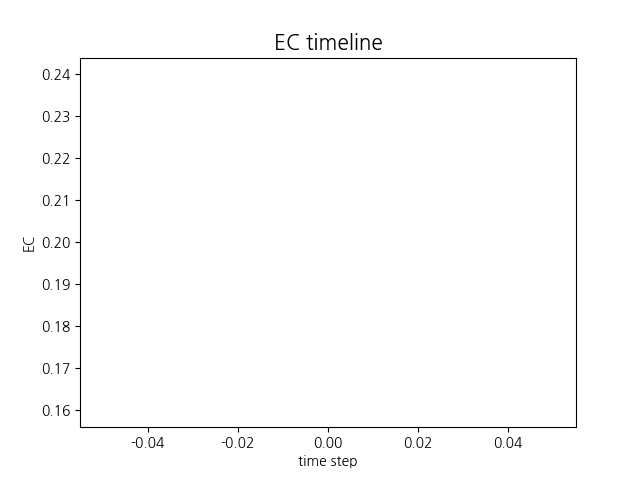
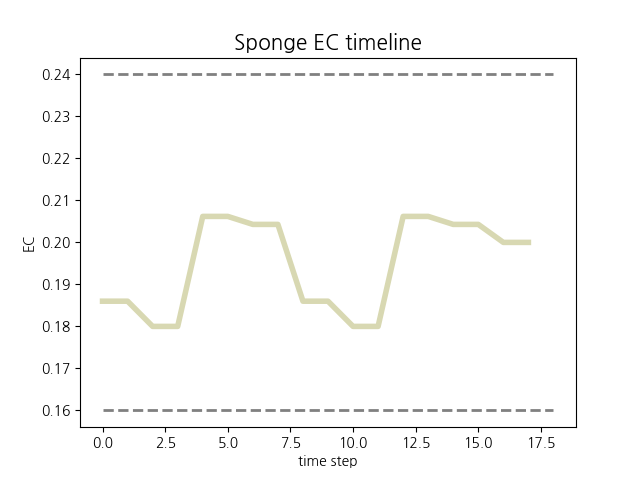
fixing db on_and_off

diff --git a/app.py b/app.py
@@ -1,7 +1,5 @@
 from flask import Flask, g, jsonify, request, render_template
-from flask import redirect
-from flask import url_for
-from flask import session
+from flask import redirect, url_for, session
 import os
 import pandas as pd
 import numpy as np
@@ -22,9 +20,9 @@ from insert_EC import insert_EC
 from making_db import making_db
 from read_EC import read_EC
 
-from datetime import datetime,timedelta
-#from db_control import search_based_time_range
-# 데이터베이스 연결 함수
+app = Flask(__name__)
+app.secret_key = os.urandom(24)
+
 # DB 생성
 connection, cursor = making_db()
 tmp_ec_data = pd.read_csv('tmp_ec_data.csv')
@@ -34,6 +32,11 @@ def get_db():
     if 'db' not in g:
         g.db = sqlite3.connect('onboard.db')
     return g.db
+
+@app.teardown_appcontext
+def close_db(error):
+    if 'db' in g:
+        g.db.close()
 
 # 10초 간격으로 데이터를 삽입하는 함수
 def inserting_data_10sec():
@@ -97,7 +100,7 @@ def returning_time_range(option):
     else:
         raise ValueError("Invalid option")
 
-def returning_time_range_ti(num,unit):
+def returning_time_range_ti(num, unit):
     now = datetime.now()
     if unit == 'second':
         return now - timedelta(seconds=num), now
@@ -113,10 +116,10 @@ def returning_time_range_ti(num,unit):
         raise ValueError("Invalid option")
 
 # 시간 범위에 따른 데이터를 조회하는 함수
-def search_based_time_range(num,unit):
+def search_based_time_range(num, unit):
     connection = get_db()
     cursor = connection.cursor()
-    start_time, end_time = returning_time_range_ti(num,unit)
+    start_time, end_time = returning_time_range_ti(num, unit)
     ectable = read_EC(cursor, start_time.strftime('%Y-%m-%d %H:%M:%S'), end_time.strftime('%Y-%m-%d %H:%M:%S'))
     return ectable
 
@@ -141,86 +144,70 @@ def yeasterday_4division():
 
 matplotlib.use('agg')
 
-app = Flask(__name__)
-app.secret_key = os.urandom(24)
-
-#def get_db():
-#    if 'db' not in g:
-#        g.db = sqlite3.connect('onboard.db')
-#    return g.db
-
-#start_insert_EC()
-
 # AI Hub Data
 global all_plant_data
 all_plant_data = pd.read_csv('plant_data.csv')
-#print(list(set(all_plant_data['kind'])))
-
 
 start_insert_EC()
-# Define endpoints
 
-# 
+# Define endpoints
 @app.route('/') # 가져와야하는 데이터 : 양액 그래프, 양액이 적절하니? 제공해야 하는 온도는?  
 def first_login():
-    
     return render_template('page-login.html') #, datas=result)
 
 @app.route('/login_failed') # 가져와야하는 데이터 : 양액 그래프, 양액이 적절하니? 제공해야 하는 온도는?  
 def login_failed():
-    
     return render_template('page-login-fail.html') #, datas=result)
-
 
 @app.route('/dologin', methods=['POST'])
 def dologin():
     #작물정보 있다고 가정. 작물데이터 불러오기
-    
-    
-
     plant = request.form.get('plant')
-    if plant in list(set(all_plant_data['kind'])) :
-        return redirect(url_for('home', plt = plant))
-    else :
+    if plant in list(set(all_plant_data['kind'])):
+        return redirect(url_for('home', plt=plant))
+    else:
         print("해당 작물에 대한 데이터가 없습니다 :(")
         return redirect(url_for('login_failed'))
 
-
 @app.route('/dashboard')
 def home():
-    
     # 시작날짜, 현재부터 nday 전까지의 dataframe = get_ndays_data()
     # growup_day(키운 날짜)  = 현재날짜 - 시작날짜
     # 총 수확일 90일 가정
     growup_day = 39
-    if 0 < growup_day <= 30 : stage = '정식기'
-    elif 30 < growup_day <= 60 :  stage = '생육기'
-    elif 30 < growup_day <= 90 :  stage = '수확기'
-    else : return redirect(url_for('home2'))
+    if 0 < growup_day <= 30:
+        stage = '정식기'
+    elif 30 < growup_day <= 60:
+        stage = '생육기'
+    elif 30 < growup_day <= 90:
+        stage = '수확기'
+    else:
+        return redirect(url_for('home2'))
     info = {}
-    plant = request.args.get('plt', default = '상추', type = str)
+    plant = request.args.get('plt', default='상추', type=str)
     data = all_plant_data.loc[all_plant_data.kind == plant]
     info['date'] = str(datetime.now().strftime('%Y-%m-%d %H:%M:%S'))#.split()[0]#'2024-06-02' ## 받아와야할거. 현재날짜
-    
-    
-    if info['date'].split('-')[1] in ['03','04','05']: info['season'] = '1봄'
-    elif info['date'].split('-')[1] in ['06','07','08']: info['season'] = '2여름'
-    elif info['date'].split('-')[1] in ['09','10','11']: info['season'] = '3가을'
-    elif info['date'].split('-')[1] in ['12','01','02']: info['season'] = '4겨울'
 
-    #data에 season 정보가 없을 경우
+    if info['date'].split('-')[1] in ['03', '04', '05']:
+        info['season'] = '1봄'
+    elif info['date'].split('-')[1] in ['06', '07', '08']:
+        info['season'] = '2여름'
+    elif info['date'].split('-')[1] in ['09', '10', '11']:
+        info['season'] = '3가을'
+    elif info['date'].split('-')[1] in ['12', '01', '02']:
+        info['season'] = '4겨울'
+
+    # data에 season 정보가 없을 경우
     possible_seasons = list(set(data.loc[data.stage == stage]['season']))
-    if info['season'] not in possible_seasons :
+    if info['season'] not in possible_seasons:
         num = [abs(int(i[0]) - int(info['season'][0])) for i in possible_seasons]
         data2 = data.loc[data.season == possible_seasons[num.index(min(num))]]
-    else : data2 = data.loc[data.season == info['season']]
+    else:
+        data2 = data.loc[data.season == info['season']]
 
     info['plant'], info['stage'], info['ec_min'], info['ec_max'] = plant, stage, data2['feed_ec_range'].values[0].split(',')[0][1:], data2['feed_ec_range'].values[0].split(',')[1][1:-1]
     info['temp_min'], info['temp_max'], info['light_min'], info['light_max'] = data2['in_temp_range'].values[0].split(',')[0][1:], data2['in_temp_range'].values[0].split(',')[1][1:-1], data2['light_range'].values[0].split(',')[0][1:], data2['light_range'].values[0].split(',')[1][1:-1]
     info['ec_temp_min'], info['ec_temp_max'], info['ph_min'], info['ph_max'] = data2['feed_temp_range'].values[0].split(',')[0][1:], data2['feed_temp_range'].values[0].split(',')[1][1:-1], data2['feed_ph_range'].values[0].split(',')[0][1:], data2['feed_ph_range'].values[0].split(',')[1][1:-1]
-
-
-
 
     ## 그래프 그리기
     ec_range = [float(info['ec_min']), float(info['ec_max'])]
@@ -229,17 +216,13 @@ def home():
     info['plot_outer'] += '?time='+str(datetime.now()).split()[1]
     info['plot_sponge'] += '?time='+str(datetime.now()).split()[1]
     
-    
     # weekly overview / 편의상7일로 했지만 시간 계산은 나중에
     info['ab_ec'] = abnormal_ec
     info['date_past'], info['date_diff'] = time_delta(info['date'], num= 120, unit = 'second')
 
-
-
-
     return render_template('home.html', data=info)
 
-def time_delta(now_date,num, unit):
+def time_delta(now_date, num, unit):
     now = datetime.strptime(now_date, "%Y-%m-%d %H:%M:%S")
     if unit == 'second':
         past = now - timedelta(seconds=num)#, now
@@ -253,112 +236,54 @@ def time_delta(now_date,num, unit):
         past = now - relativedelta(years=num)#, now
     else:
         raise ValueError("Invalid option")
-    #past = now - timedelta(days=7)
-    return str(past),now - past#.split()[0] 
+    # past = now - timedelta(days=7)
+    return str(past), now - past#.split()[0] 
 
-
-
-def plotting_outer(ec_range_list):#,sensor_data):
-    #tmp_ec_data = pd.read_csv('tmp_ec_data.csv')
-    #sensor_data = tmp_ec_data['feed_ec'].to_list()
-    EC_table = search_based_time_range(120,'second') # Time, OuterEC, SpongeEC
+def plotting_outer(ec_range_list):#, sensor_data):
+    EC_table = search_based_time_range(120, 'second') # Time, OuterEC, SpongeEC
     sensor_data = EC_table['OuterEC'].to_list()
-    #plt.plot(sensor_data)
-    #plt.figure(figsize=(12,8))
     y = np.array(sensor_data)
     x = np.arange(len(y))
     below_threshold = y < ec_range_list[0]
     above_threshold = y > ec_range_list[1]
-    abnormal_ec = sum(below_threshold)+ sum(above_threshold)
-    # line plot
-    plt.plot(x, y, color='olive', linewidth=4, alpha = 0.3)
-    plt.scatter(x[below_threshold], y[below_threshold], color='red')#, alpha = 0.4)
-    plt.scatter(x[above_threshold], y[above_threshold], color='red')#, alpha = 0.4)
-    plt.hlines(ec_range_list[0],0,len(y), color='gray', linestyle='--', linewidth=2)
-    plt.hlines(ec_range_list[1],0,len(y), color='gray', linestyle='--', linewidth=2)
-
-    plt.xlabel('time step',size=10)
-    plt.ylabel('EC',size=10)     
-    plt.title('Outer EC timeline',size=15)
-
+    abnormal_ec = sum(below_threshold) + sum(above_threshold)
+    plt.plot(x, y, color='olive', linewidth=4, alpha=0.3)
+    plt.scatter(x[below_threshold], y[below_threshold], color='red')
+    plt.scatter(x[above_threshold], y[above_threshold], color='red')
+    plt.hlines(ec_range_list[0], 0, len(y), color='gray', linestyle='--', linewidth=2)
+    plt.hlines(ec_range_list[1], 0, len(y), color='gray', linestyle='--', linewidth=2)
+    plt.xlabel('time step', size=10)
+    plt.ylabel('EC', size=10)
+    plt.title('Outer EC timeline', size=15)
     plt.savefig("./static/assets/img/test_outer.png")
     plt.pause(1)
     plt.close()
-    #plt.show()
-
     return '../static/assets/img/test_outer.png', abnormal_ec
 
-def plotting_sponge(ec_range_list):#,sensor_data):
-    #tmp_ec_data = pd.read_csv('tmp_ec_data2.csv')
-    #sensor_data2 = tmp_ec_data['feed_ec'].to_list()
-    EC_table = search_based_time_range(120,'second') # Time, OuterEC, SpongeEC
+def plotting_sponge(ec_range_list):#, sensor_data):
+    EC_table = search_based_time_range(120, 'second') # Time, OuterEC, SpongeEC
     sensor_data2 = EC_table['SpongeEC'].to_list()
-    #plt.plot(sensor_data)
-    #plt.figure(figsize=(12,8))
     y = np.array(sensor_data2)
     x = np.arange(len(y))
     below_threshold = y < ec_range_list[0]
     above_threshold = y > ec_range_list[1]
-    abnormal_ec = sum(below_threshold)+ sum(above_threshold)
-    # line plot
-    plt.plot(x, y, color='olive', linewidth=4, alpha = 0.3)
-    plt.scatter(x[below_threshold], y[below_threshold], color='red')#, alpha = 0.4)
-    plt.scatter(x[above_threshold], y[above_threshold], color='red')#, alpha = 0.4)
-    plt.hlines(ec_range_list[0],0,len(y), color='gray', linestyle='--', linewidth=2)
-    plt.hlines(ec_range_list[1],0,len(y), color='gray', linestyle='--', linewidth=2)
-
-    plt.xlabel('time step',size=10)
-    plt.ylabel('EC',size=10)     
-    plt.title('Sponge EC timeline',size=15)
-
+    abnormal_ec = sum(below_threshold) + sum(above_threshold)
+    plt.plot(x, y, color='olive', linewidth=4, alpha=0.3)
+    plt.scatter(x[below_threshold], y[below_threshold], color='red')
+    plt.scatter(x[above_threshold], y[above_threshold], color='red')
+    plt.hlines(ec_range_list[0], 0, len(y), color='gray', linestyle='--', linewidth=2)
+    plt.hlines(ec_range_list[1], 0, len(y), color='gray', linestyle='--', linewidth=2)
+    plt.xlabel('time step', size=10)
+    plt.ylabel('EC', size=10)
+    plt.title('Sponge EC timeline', size=15)
     plt.savefig("./static/assets/img/test_sponge.png")
     plt.pause(1)
     plt.close()
-    #plt.show()
-
     return '../static/assets/img/test_sponge.png', abnormal_ec
-
-
-
-
-
-
-
-
-
 
 @app.route('/dashboard_already_growup')
 def home2():
-    #data_update()
-    # 시작날짜, 현재부터 nday 전까지의 dataframe = get_ndays_data()
-    # growup_day(키운 날짜)  = 현재날짜 - 시작날짜
-    #info = {}
-    #plant = request.args.get('plt', default = '상추', type = str)
-    #data = all_plant_data[plant]
-    #info['date'] = '2024-06-02' ## 받아와야할거
-    #if info['date'].split('-')[1] in ['03','04','05']: info['season'] = '1봄'
-    #elif info['date'].split('-')[1] in ['06','07','08']: info['season'] = '2여름'
-    #elif info['date'].split('-')[1] in ['09','10','11']: info['season'] = '3가을'
-    #elif info['date'].split('-')[1] in ['12','01','02']: info['season'] = '4겨울'
-
-    #info['plant'], info['stage'], info['ec_min'], info['ec_max'] = plant, '성장기',20.3, 23.5
-    #info['temp_min'], info['temp_max'], info['light_min'], info['light_min'] = 18.2, 23.4, 100, 500
-    #info['ec_temp_min'], info['ec_temp_max'], info['ph_min'], info['ph_max'] = 20.1, 22.6, 5.5, 6.0 
-
-    return render_template('home2.html', data=info)
-
-
-
-
-
-
-
-
-
-
-
-
-
+    return render_template('home2.html')
 
 '''
 @app.route('/login')
